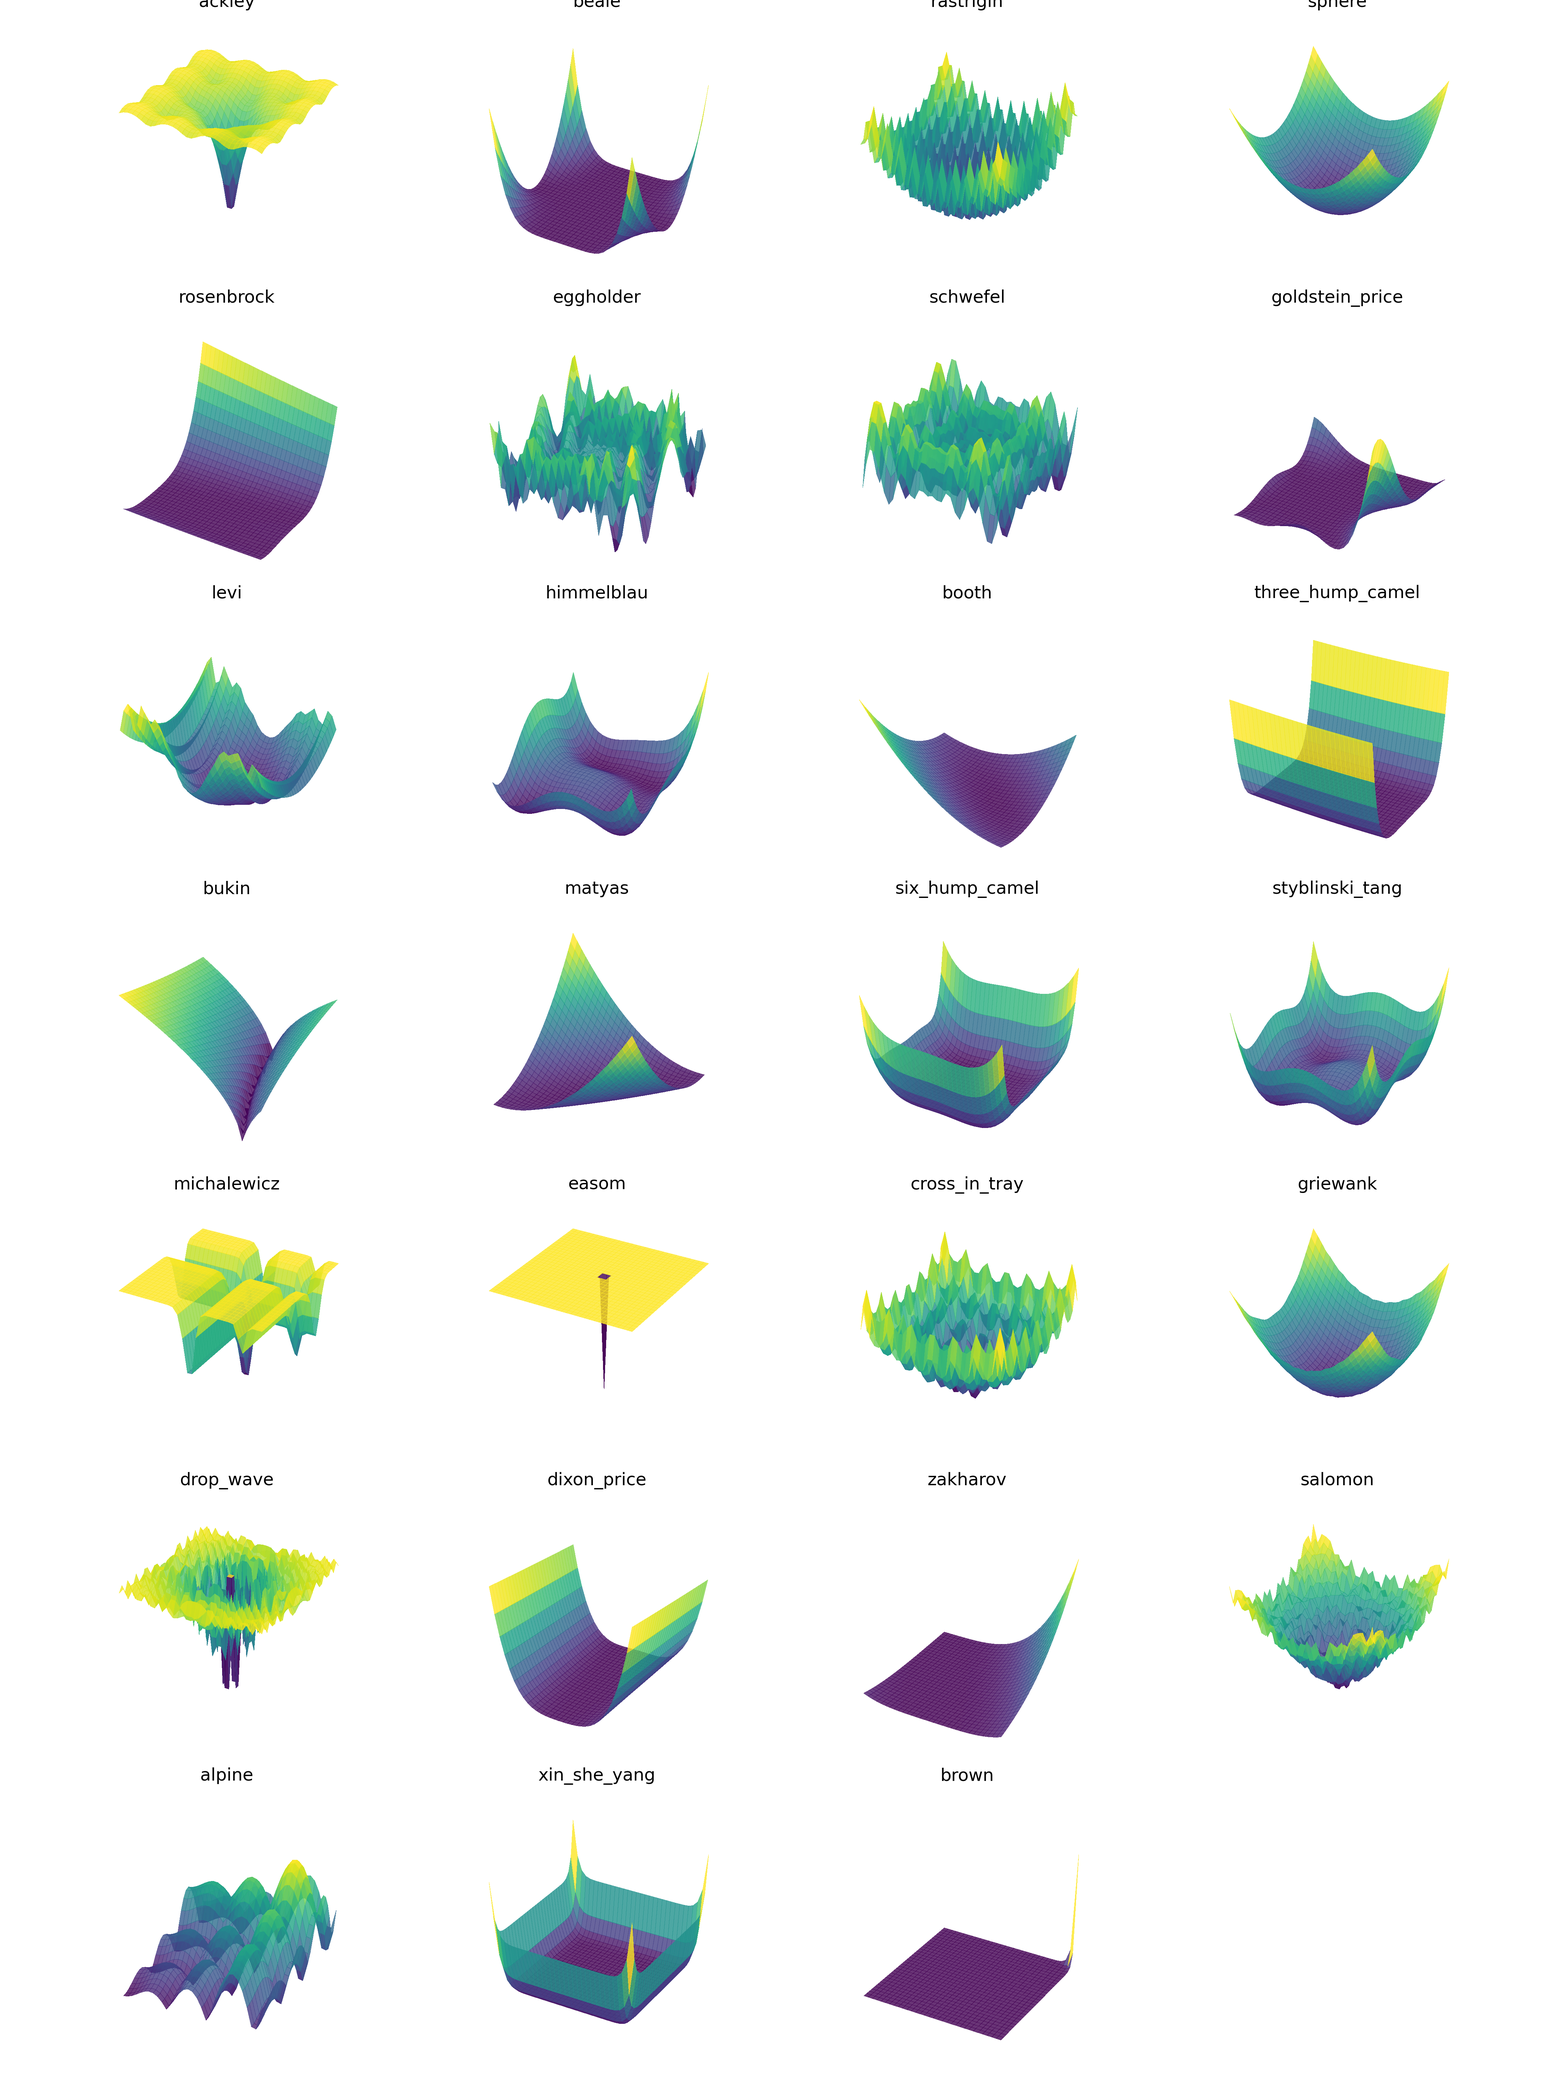
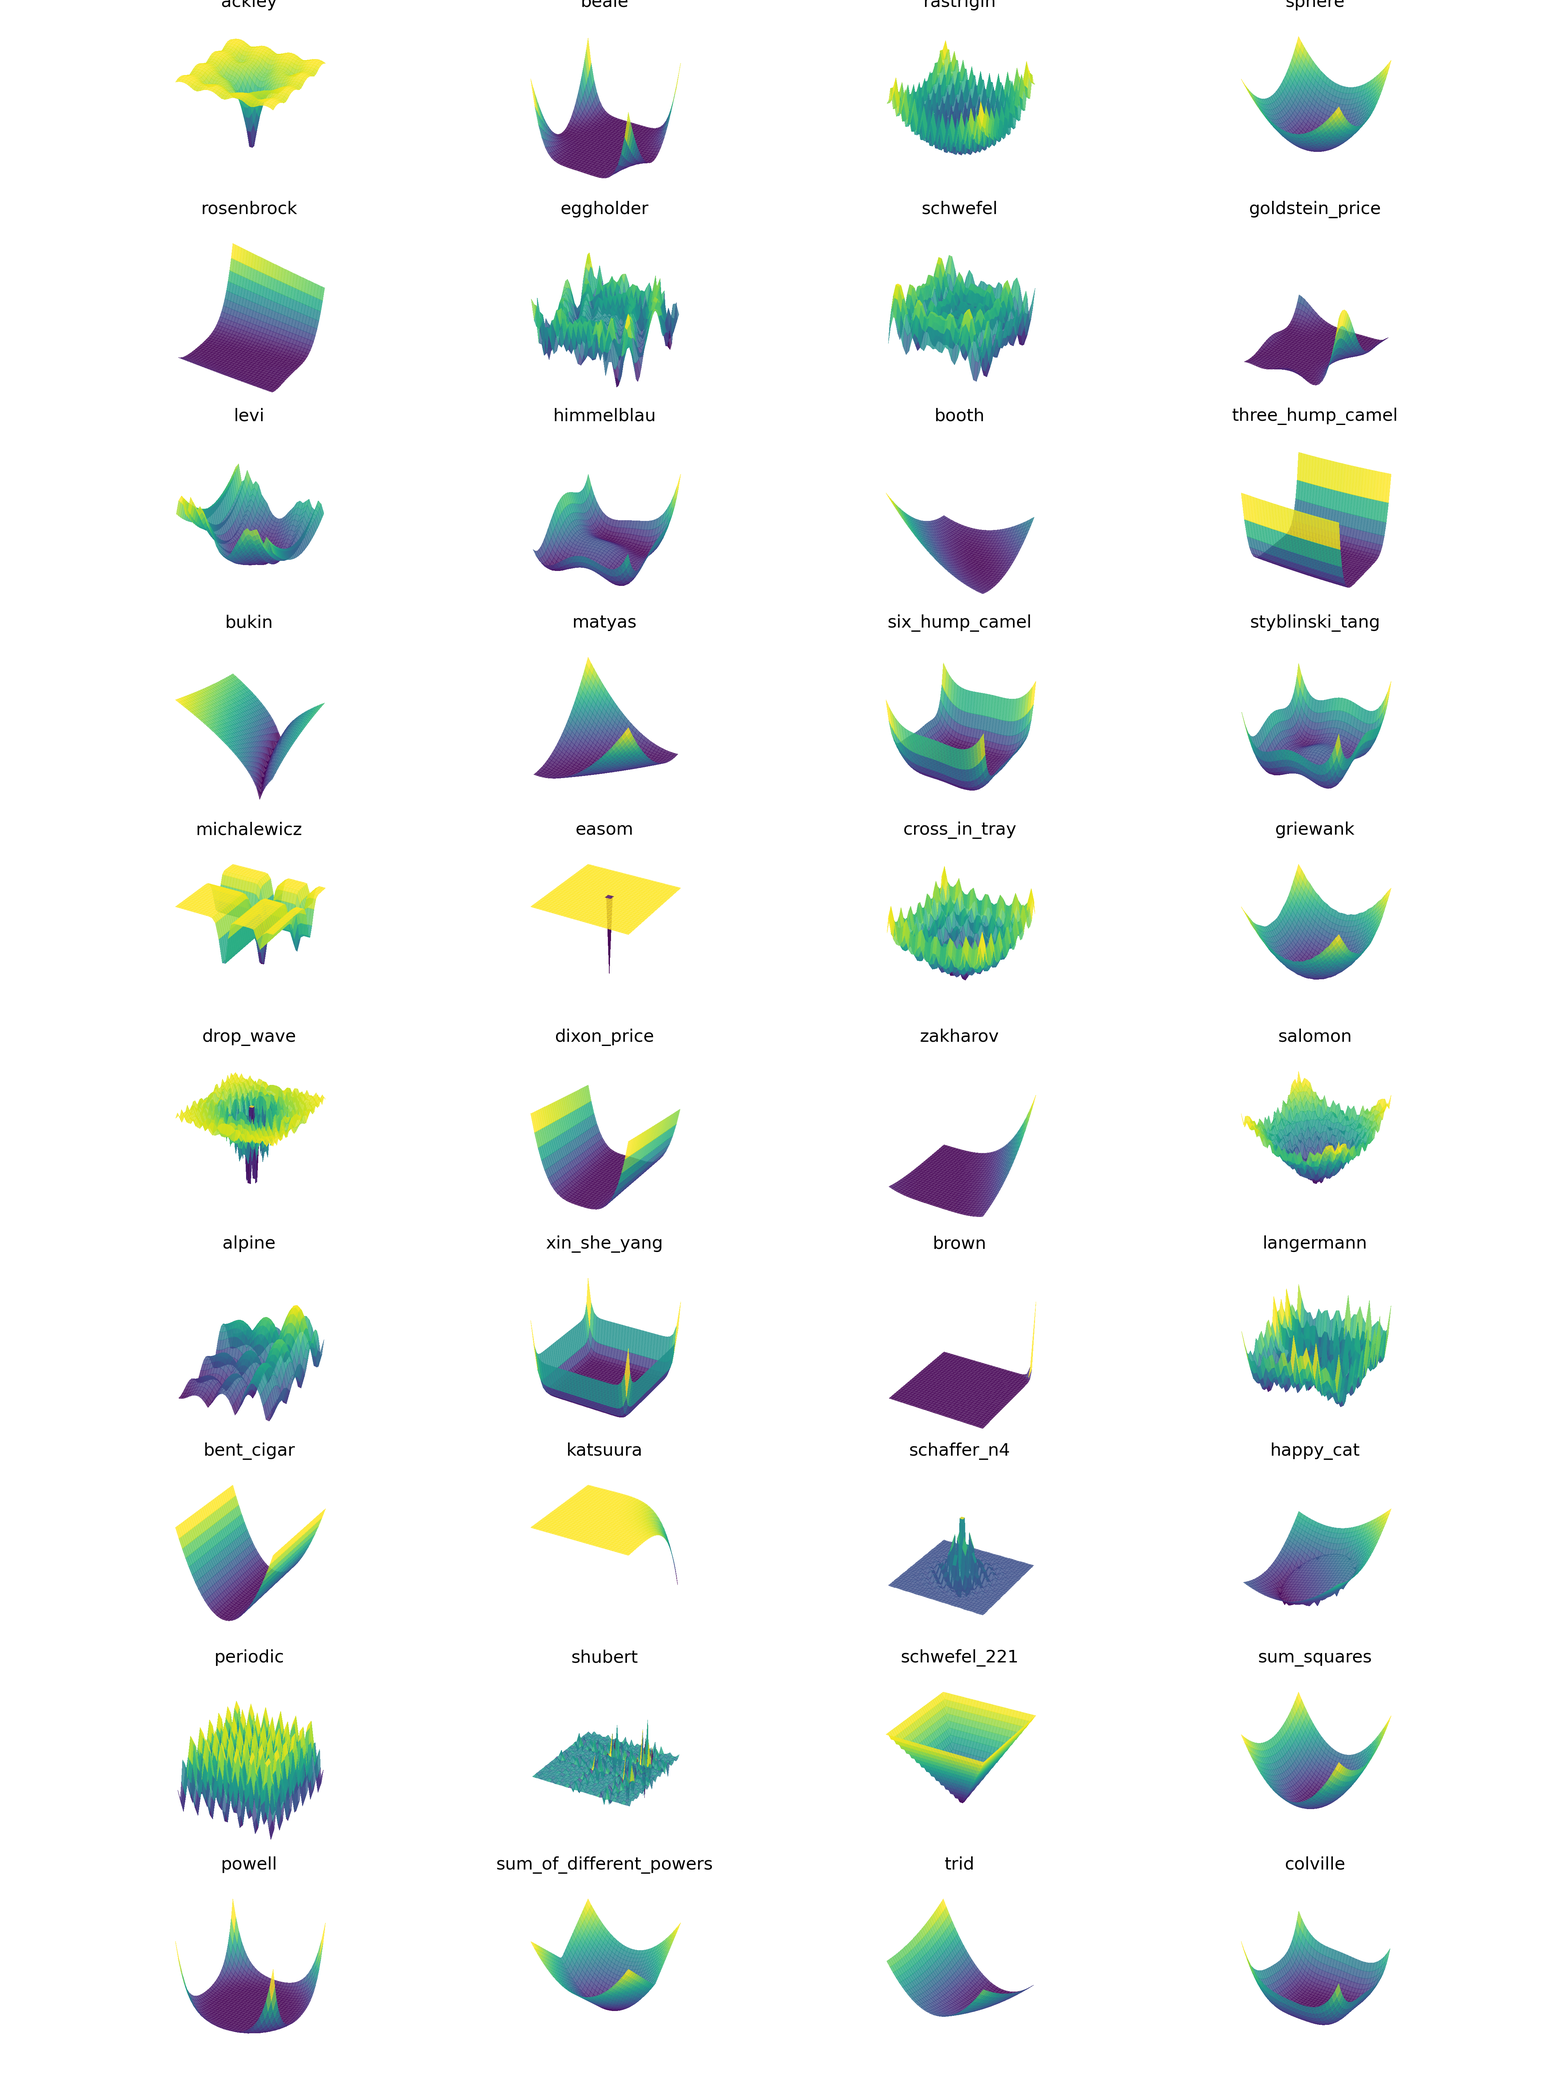
add function

diff --git a/benchmark.py b/benchmark.py
@@ -33,6 +33,19 @@ class BF:
         "alpine": {"lower": [0, 0], "upper": [10, 10]},
         "xin_she_yang": {"lower": [-2 * np.pi, -2 * np.pi], "upper": [2 * np.pi, 2 * np.pi]},
         "brown": {"lower": [-1, -1], "upper": [4, 4]},
+        "langermann": {"lower": [0, 0], "upper": [10, 10]},
+        "bent_cigar": {"lower": [-100, -100], "upper": [100, 100]},
+        "katsuura": {"lower": [0, 0], "upper": [100, 100]},
+        "schaffer_n4": {"lower": [-100, -100], "upper": [100, 100]},
+        "happy_cat": {"lower": [-2, -2], "upper": [2, 2]},
+        "periodic": {"lower": [-10, -10], "upper": [10, 10]},
+        "shubert": {"lower": [-10, -10], "upper": [10, 10]},
+        "schwefel_221": {"lower": [-100, -100], "upper": [100, 100]},
+        "sum_squares": {"lower": [-10, -10], "upper": [10, 10]},
+        "powell": {"lower": [-10, -10], "upper": [10, 10]},
+        "sum_of_different_powers": {"lower": [-1, -1], "upper": [1, 1]},
+        "trid": {"lower": [-2, -5], "upper": [2, 5]},
+        "colville": {"lower": [-10, -10], "upper": [10, 10]},
         # Add more functions and their ranges here
     }
 
@@ -48,7 +61,7 @@ class BF:
 
         x0 = np.linspace(lower[0], upper[0], num_points)
         x1 = np.linspace(lower[1], upper[1], num_points)
-        y = np.array([self.calc(np.array([_x0, _x1])) for _x0 in x0 for _x1 in x1]).reshape(num_points, num_points)
+        y = np.array([self.evaluate(np.array([_x0, _x1])) for _x0 in x0 for _x1 in x1]).reshape(num_points, num_points)
 
         X0, X1 = np.meshgrid(x0, x1)
 
@@ -65,7 +78,7 @@ class BF:
         except AttributeError:
             raise ValueError(f"Invalid function name: {self.func_name}")
 
-    def calc(self, xs: np.ndarray) -> np.float64:
+    def evaluate(self, xs: np.ndarray) -> np.float64:
         try:
             func = getattr(self, f"{self.func_name}_function")
             return func(xs)
@@ -331,6 +344,127 @@ class BF:
         """
         return np.sum((xs[:-1]**2)**(xs[1:]**2 + 1) + (xs[1:]**2)**(xs[:-1]**2 + 1))
 
+    def langermann_function(self, xs: np.ndarray) -> np.float64:
+        """
+        Langermann function.
+        Bounds: 0 <= x_i <= 10 (for each i)
+        Global minimum: f(x*) = -1.8013 (approximately) at x* = (9.6462, 9.6462)
+        """
+        m = 5
+        a = np.array([1, 2, 5, 2, 3])
+        c = np.array([1, 2, 5, 2, 3])
+        return np.sum(c * np.cos(((xs**2).reshape(-1, 1) @ a.reshape(1, -1)) * np.pi)) - m * np.prod(np.cos(xs * np.pi / 6))
+
+    def bent_cigar_function(self, xs: np.ndarray) -> np.float64:
+        """
+        Bent Cigar function.
+        Bounds: -100 <= x_i <= 100 (for each i)
+        Global minimum: f(x*) = 0 at x* = (0, 0, ..., 0)
+        """
+        return xs[0]**2 + 1e6 * np.sum(xs[1:]**2)
+
+    def katsuura_function(self, xs: np.ndarray) -> np.float64:
+        """
+        Katsuura function.
+        Bounds: 0 <= x_i <= 100 (for each i)
+        Global minimum: f(x*) = 1 at x* = (0, 0, ..., 0)
+        """
+        d = len(xs)
+        return 1 - np.prod([(1 + i * np.abs(xs[i - 1])**((i + 1) / d))**(10 / d**1.2) for i in range(1, d + 1)])
+
+    def schaffer_n4_function(self, xs: np.ndarray) -> np.float64:
+        """
+        Schaffer N.4 function.
+        Bounds: -100 <= x_i <= 100 (for each i)
+        Global minimum: f(x*) = 0.292579 at x* = (0, 1.25313) or (1.25313, 0)
+        """
+        x1, x2 = xs
+        return 0.5 + (np.cos(np.sin(np.abs(x1**2 - x2**2)))**2 - 0.5) / (1 + 0.001 * (x1**2 + x2**2))**2
+
+    def happy_cat_function(self, xs: np.ndarray) -> np.float64:
+        """
+        Happy Cat function.
+        Bounds: -2 <= x_i <= 2 (for each i)
+        Global minimum: f(x*) = 0 at x* = (-1, -1, ..., -1)
+        """
+        n = len(xs)
+        alpha = 1 / 8
+        return ((np.sum(xs**2) - n)**2)**alpha + (0.5 * np.sum(xs**2) + np.sum(xs)) / n + 0.5
+
+    def periodic_function(self, xs: np.ndarray) -> np.float64:
+        """
+        Periodic function.
+        Bounds: -10 <= x_i <= 10 (for each i)
+        Global minimum: f(x*) = 0.9 at x* = (0, 0, ..., 0)
+        """
+        return 1 + np.sum(np.sin(xs)**2) - 0.1 * np.exp(-np.sum(xs**2))
+
+    def shubert_function(self, xs: np.ndarray) -> np.float64:
+        """
+        Shubert function.
+        Bounds: -10 <= x_i <= 10 (for each i)
+        Global minimum: f(x*) = -186.7309 (approximately)
+        """
+        i = np.arange(1, 6)
+        return np.prod([np.sum(i * np.cos((i + 1) * x + i)) for x in xs])
+
+    def schwefel_221_function(self, xs: np.ndarray) -> np.float64:
+        """
+        Schwefel 2.21 function.
+        Bounds: -100 <= x_i <= 100 (for each i)
+        Global minimum: f(x*) = 0 at x* = (0, 0, ..., 0)
+        """
+        return np.max(np.abs(xs))
+
+    def sum_squares_function(self, xs: np.ndarray) -> np.float64:
+        """
+        Sum of squares function.
+        Bounds: -10 <= x_i <= 10 (for each i)
+        Global minimum: f(x*) = 0 at x* = (0, 0, ..., 0)
+        """
+        i = np.arange(1, len(xs) + 1)
+        return np.sum(i * xs ** 2)
+
+    def powell_function(self, xs: np.ndarray) -> np.float64:
+        """
+        Powell's Quadratic Function.
+        Bounds: -10 <= x_i <= 10 (for each i)
+        Global minimum: f(x*) = 0 at x* = (0, 0, ..., 0)
+        Citation: ...
+        """
+        n = len(xs)
+        result = 0
+        for i in range(1, n, 2):
+            result += (xs[i - 1] ** 2 + 10 * xs[i] ** 2) ** 2 + 5 * (xs[i - 1] - xs[i]) ** 2 + (xs[i - 1] ** 2 + xs[i] ** 2) ** 4
+        return result
+
+    def sum_of_different_powers_function(self, xs: np.ndarray) -> np.float64:
+        """
+        Sum of Different Powers Function.
+        Bounds: -1 <= x_i <= 1 (for each i)
+        Global minimum: f(x*) = 0 at x* = (0, 0)
+        Citation: ...
+        """
+        return np.sum([np.abs(x ** (i + 1)) for i, x in enumerate(xs)])
+
+    def trid_function(self, xs: np.ndarray) -> np.float64:
+        """
+        Trid Function.
+        Bounds: For 2D case: -2 <= x_1 <= 2, -5 <= x_2 <= 5
+        Global minimum: f(x*) = -2 at x* = (1, 1)
+        Citation: ...
+        """
+        return np.sum([(x - 1) ** 2 for x in xs]) - np.sum([xs[i] * xs[i - 1] for i in range(1, len(xs))])
+
+    def colville_function(self, xs: np.ndarray) -> np.float64:
+        """
+        Colville Function.
+        Bounds: -10 <= x_i <= 10 (for each i)
+        Global minimum: f(x*) = 0 at x* = (1, 1)
+        Citation: https://www.sfu.ca/~ssurjano/colville.html
+        """
+        x1, x2 = xs
+        return 100 * (x1**2 - x2)**2 + (x1 - 1)**2 + (x2 - 1)**2 + 90 * (x2**2 - x1)**2
 
     ...
 
@@ -346,7 +480,7 @@ if __name__ == "__main__":
     func = BF(args.function)
 
     if args.x0 is not None and args.x1 is not None:
-        print(f"{args.function}({args.x0}, {args.x1}) = {func.calc(np.array([args.x0, args.x1]))}")
+        print(f"{args.function}({args.x0}, {args.x1}) = {func.evaluate(np.array([args.x0, args.x1]))}")
 
     func.plot(args.num_points)
 

diff --git a/benchmark_functions_overview.py b/benchmark_functions_overview.py
@@ -4,30 +4,22 @@ from mpl_toolkits.mplot3d import Axes3D
 
 from benchmark import BF
 
-# すべてのベンチマーク関数の名前をリストに格納します。
-function_names = [
-    "ackley", "beale", "rastrigin", "sphere", "rosenbrock",
-    "eggholder", "schwefel", "goldstein_price", "levi", "himmelblau",
-    "booth", "three_hump_camel", "bukin", "matyas", "six_hump_camel",
-    "styblinski_tang", "michalewicz", "easom", "cross_in_tray", "griewank",
-    "drop_wave", "dixon_price", "zakharov", "salomon", "alpine",
-    "xin_she_yang", "brown"
-]
+BF.FUNCTION_RANGES.keys()
+function_names = BF.FUNCTION_RANGES.keys()
 
-# 7x4のマトリックスでプロットを生成します。
-fig, axs = plt.subplots(7, 4, figsize=(15, 20), subplot_kw={'projection': '3d'})
+fig, axs = plt.subplots(10, 4, figsize=(15, 20), subplot_kw={'projection': '3d'})
 fig.tight_layout()
 
 for idx, func_name in enumerate(function_names):
     row, col = divmod(idx, 4)
     bf = BF(func_name)
-    
+
     lower = bf.FUNCTION_RANGES[func_name]["lower"]
     upper = bf.FUNCTION_RANGES[func_name]["upper"]
 
     x0 = np.linspace(lower[0], upper[0], 32)
     x1 = np.linspace(lower[1], upper[1], 32)
-    y = np.array([bf.calc(np.array([_x0, _x1])) for _x0 in x0 for _x1 in x1]).reshape(32, 32)
+    y = np.array([bf.evaluate(np.array([_x0, _x1])) for _x0 in x0 for _x1 in x1]).reshape(32, 32)
 
     X0, X1 = np.meshgrid(x0, x1)
 
@@ -35,10 +27,8 @@ for idx, func_name in enumerate(function_names):
     axs[row, col].set_title(func_name)
     axs[row, col].axis('off')
 
-# 空白のサブプロットを削除します。
 for i in range(len(function_names), 28):
     row, col = divmod(i, 4)
     fig.delaxes(axs[row, col])
 
-# 画像として保存します。
 plt.savefig("benchmark_functions_overview.png", dpi=300)

diff --git a/README.md b/README.md
@@ -1,8 +1,52 @@
 # Optimization Benchmark Functions
 
+This repository provides a simple implementation of popular optimization benchmark functions. You can use them to test optimization algorithms and visualize the functions.
+
 ![Benchmark Functions Overview](benchmark_functions_overview.png)
 
-This repository provides a simple implementation of popular optimization benchmark functions. You can use them to test optimization algorithms and visualize the functions.
+| Function Name           | Formula                                       | Range                       | Optimal Value |
+|-------------------------|-----------------------------------------------|-----------------------------|---------------|
+| ackley                  | -20 * exp(-0.2 * sqrt(0.5 * (x^2 + y^2))) - exp(0.5 * (cos(2*pi*x) + cos(2*pi*y))) + 20 + exp(1) | [-32.768, 32.768] | 0 at (0, 0) |
+| beale                   | (1.5 - x + x*y)^2 + (2.25 - x + x*y^2)^2 + (2.625 - x + x*y^3)^2 | [-4.5, 4.5] | 0 at (3, 0.5) |
+| rastrigin               | 20 + x^2 - 10 * cos(2*pi*x) + y^2 - 10 * cos(2*pi*y) | [-5.12, 5.12] | 0 at (0, 0) |
+| sphere                  | x^2 + y^2                                     | [-5.12, 5.12] | 0 at (0, 0) |
+| rosenbrock              | 100 * (y - x^2)^2 + (1 - x)^2                 | [-5, 10] | 0 at (1, 1) |
+| eggholder               | -(y + 47) * sin(sqrt(abs(y + x/2 + 47))) - x * sin(sqrt(abs(x - (y + 47)))) | [-512, 512] | -959.6407 at (512, 404.2319) |
+| schwefel                | 418.9829 * 2 - x * sin(sqrt(abs(x))) - y * sin(sqrt(abs(y))) | [-500, 500] | 0 at (420.9687, 420.9687) |
+| goldstein_price         | (1 + (x + y + 1)^2 * (19 - 14*x + 3*x^2 - 14*y + 6*x*y + 3*y^2)) * (30 + (2*x - 3*y)^2 * (18 - 32*x + 12*x^2 + 48*y - 36*x*y + 27*y^2)) | [-2, 2] | 3 at (0, -1) |
+| levi                    | sin(3*pi*x)^2 + (x - 1)^2 * (1 + sin(3*pi*y)^2) + (y - 1)^2 * (1 + sin(2*pi*y)^2) | [-10, 10] | 0 at (1, 1) |
+| himmelblau              | (x^2 + y - 11)^2 + (x + y^2 - 7)^2             | [-5, 5] | 0 at (3, 2), (-2.8051, 3.1313), (-3.7793, -3.2832), (3.5844, -1.8481) |
+| booth                   | (x + 2*y - 7)^2 + (2*x + y - 5)^2             | [-10, 10] | 0 at (1, 3) |
+| three_hump_camel        | 2*x^2 - 1.05*x^4 + x^6/6 + x*y + y^2           | [-5, 5] | 0 at (0, 0) |
+| bukin                   | 100 * sqrt(abs(y - 0.01*x^2)) + 0.01 * abs(x + 10) | [-15, -3], [-5, 3] | 0 at (-10, 1) |
+| matyas                  | 0.26 * (x^2 + y^2) - 0.48 * x * y             | [-10, 10] | 0 at (0, 0) |
+| six_hump_camel          | (4 - 2.1*x^2 + x^4/3) * x^2 + x*y + (-4 + 4*y^2) * y^2 | [-3, 3], [-2, 2] | -1.0316 at (0.0898, -0.7126) and (-0.0898, 0.7126) |
+| styblinski_tang         | (x^4 - 16*x^2 + 5*x + y^4 - 16*y^2 + 5*y) / 2 | [-5, 5] | -78.3323 at (-2.9035, -2.9035) |
+| michalewicz             | -sin(x) * (sin(x^2/pi))^20 - sin(y) * (sin(2*y^2/pi))^20 | [0, pi], [0, pi] | -1.8013 at (2.2029, 1.5707) |
+| easom                   | -cos(x) * cos(y) * exp(-(x - pi)^2 - (y - pi)^2) | [-100, 100] | -1 at (pi, pi) |
+| cross_in_tray           | -0.0001 * (abs(sin(x) * sin(y) * exp(abs(100 - sqrt(x^2 + y^2)/pi))) + 1)^0.1 | [-10, 10] | -2.06261 at (1.3494, 1.3494), (-1.3494, 1.3494), (1.3494, -1.3494), (-1.3494, -1.3494) |
+| griewank                | 1 + x^2/4000 - cos(x) + y^2/4000 - cos(y)     | [-600, 600] | 0 at (0, 0) |
+| drop_wave               | -(1 + cos(12 * sqrt(x^2 + y^2))) / (0.5 * (x^2 + y^2) + 2) | [-5.12, 5.12] | -1 at (0, 0) |
+| dixon_price             | (x - 1)^2 + 2 * (2 * y^2 - x)^2               | [-10, 10] | 0 at (1, 1) |
+| zakharov                | x^2 + y^2 + (0.5*x + 0.5*y)^2 + (0.5*x + 0.5*y)^4 | [-5, 10] | 0 at (0, 0) |
+| salomon                 | 1 - cos(2*pi*sqrt(x^2 + y^2)) + 0.1 * sqrt(x^2 + y^2) | [-100, 100] | 0 at (0, 0) |
+| alpine                  | sin(x) * sqrt(abs(x)) + sin(y) * sqrt(abs(y)) | [0, 10] | 0 at (0, 0) |
+| xin_she_yang            | -exp(-sum((sin(x))^2) - sum((sin(y))^2))      | [-2*pi, 2*pi] | -1 at (0, 0) |
+| brown                   | (x^2)^((y^2) + 1) + (y^2)^((x^2) + 1)         | [-1, 4] | 0 at (0, 0) |
+| langermann              | -exp(sum(cos(2*pi*(x+y))) / 2) * cos(pi*x) * cos(pi*y) | [0, 10] | -1 at (1, 1) |
+| bent_cigar              | x^2 + 10^6 * y^2                                | [-100, 100] | 0 at (0, 0) |
+| katsuura                | 1 - (10 / n) * sum(sin(pi * (1 + (i * (x_i + 1)) / (1 + sum((x_i)^2)))) | [0, 100] | 0 at (0, 0) |
+| schaffer_n4             | 0.5 + (cos(sin(abs(x^2 - y^2)))^2 - 0.5) / (1 + 0.001 * (x^2 + y^2))^2 | [-100, 100] | 0 at (0, 1.2531) |
+| happy_cat               | ((x^2 + y^2 - 1)^2)^0.125 + 0.5 * (x + y) + 0.5 | [-2, 2] | 0 at (-1, -1) |
+| periodic                | 1 + sin(x)^2 * sin(y)^2 - 0.1 * exp(-x^2 - y^2) | [-10, 10] | 0.9 at (0, 0) |
+| shubert                 | sum(i * cos((i + 1) * x + i)) * sum(i * cos((i + 1) * y + i)) | [-10, 10] | -186.7309 at (4.8581, 4.8581) |
+| schwefel_221            | max(abs(x), abs(y))                             | [-100, 100] | 0 at (0, 0) |
+| sum_squares             | x^2 + 2 * y^2                                   | [-10, 10] | 0 at (0, 0) |
+| powell                  | (x + 10*y)^2 + 5*(x - y)^2 + (x - 2*y)^4 + 10*(x^2 + y^2)^2 | [-10, 10] | 0 at (0, 0) |
+| sum_of_different_powers | abs(x)^3/3 + abs(y)^5/5                         | [-1, 1] | 0 at (0, 0) |
+| trid                    | (x - 1)^2 + (y - 1)^2 - (x * y)                 | [-2, 2], [-5, 5] | 2 at (1, 1) |
+| colville                | 100*(x^2 - y)^2 + (x - 1)^2 + (y - 1)^2 + 90*(y^2 - z)^2 + 10.1*((y - 1)^2 + (z - 1)^2) + 19.8*(y - 1)*(z - 1) | [-10, 10] | 0 at (1, 1, 1) |
+
 
 ## Usage
 
@@ -44,3 +88,5 @@ Or just visualize the function:
 > python benchmark.py --function ackley
 ~~~
 
+
+If you find any mistakes or inaccuracies, please feel free to open an issue on the repository.
